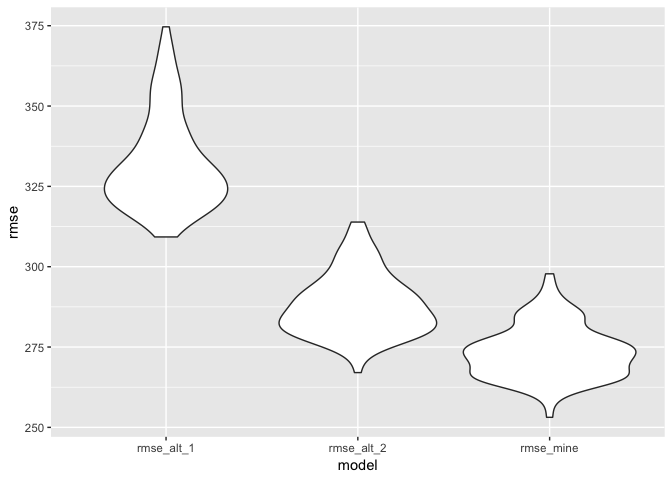
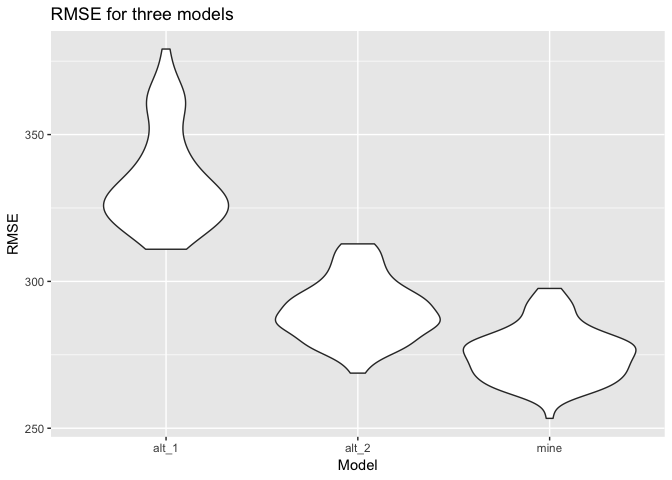
Modify plot labels and titles

diff --git a/p8105_hw6_xy2395.md b/p8105_hw6_xy2395.md
@@ -279,7 +279,12 @@ weight_df %>%
   add_predictions(fit_mine) %>%
   add_residuals(fit_mine) %>%
   ggplot(aes(y = resid, x = pred)) + 
-  geom_point(alpha = 0.25) 
+  geom_point(alpha = 0.25) +
+  labs(
+      x = "Fitted Value",
+      y = "Residual",
+      title = "Model residuals against fitted values"
+  )
 ```
 
 ![](p8105_hw6_xy2395_files/figure-markdown_github/unnamed-chunk-8-1.png)
@@ -367,15 +372,20 @@ cv_df =
   )
 ```
 
-Plot the distribution of RMSEs for the three models.
+Plot the distribution of RMSE for the three models.
 
 ``` r
 cv_df %>% 
   select(starts_with('rmse')) %>% 
   gather(key = model, value = rmse, rmse_mine:rmse_alt_2) %>% 
-  group_by(model) %>% 
+  mutate(model = str_replace(model, "rmse_", '')) %>% 
   ggplot(aes(x = model, y = rmse)) +
-    geom_violin()
+    geom_violin() + 
+    labs(
+      x = "Model",
+      y = "RMSE",
+      title = "RMSE for three models"
+    )
 ```
 
 ![](p8105_hw6_xy2395_files/figure-markdown_github/unnamed-chunk-11-1.png)
